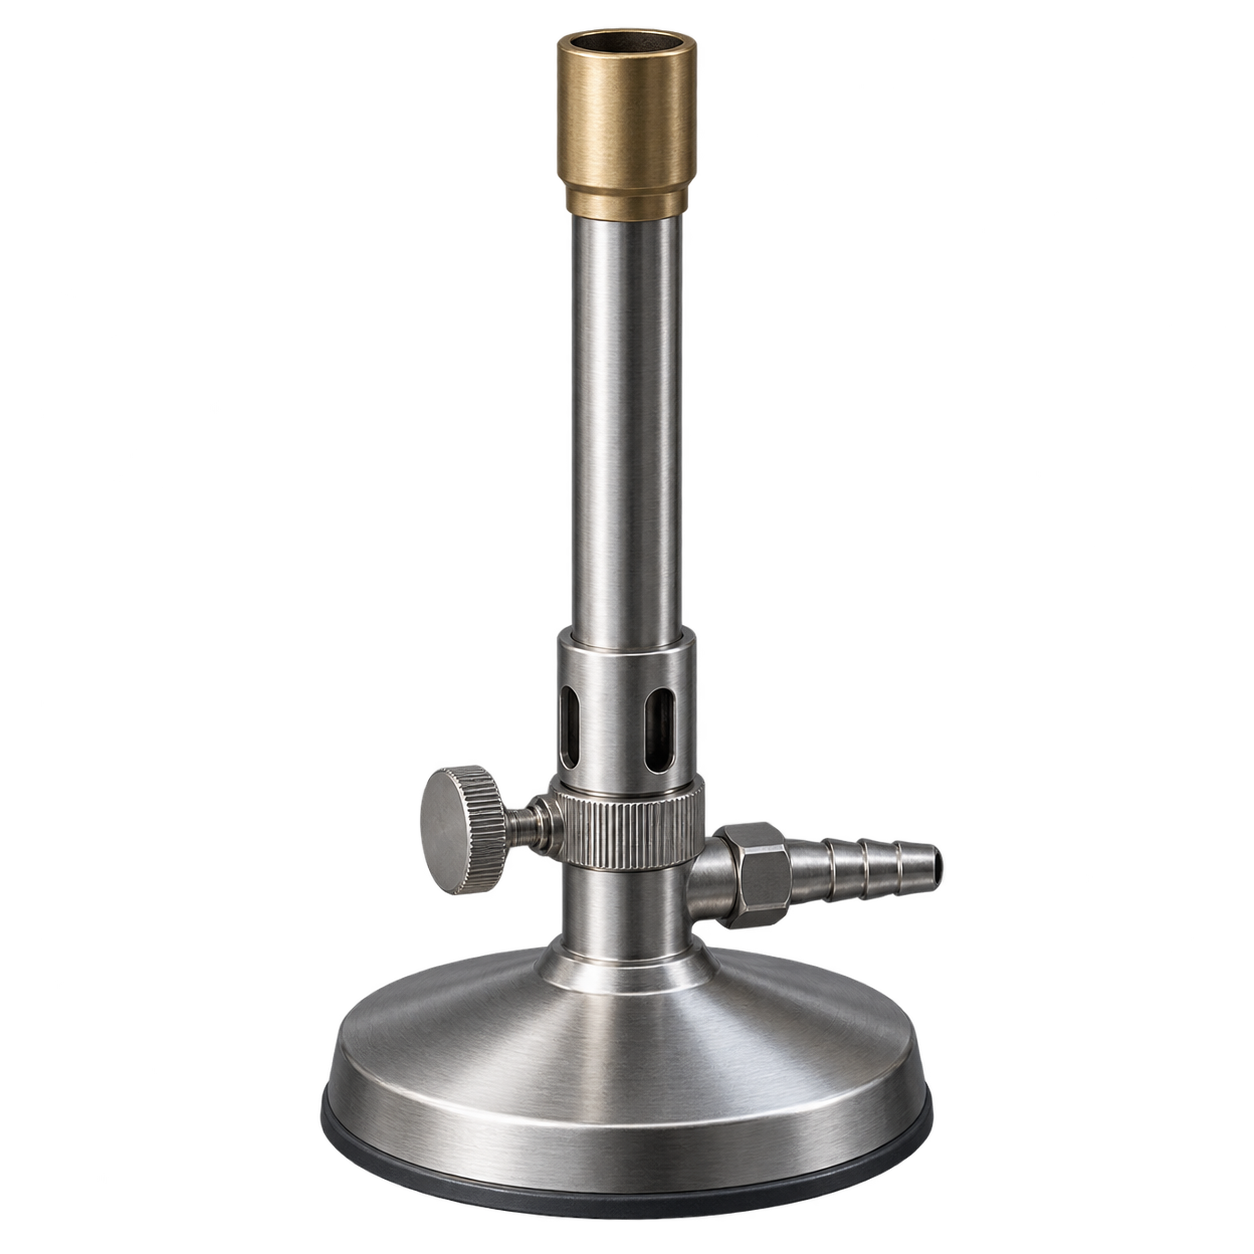
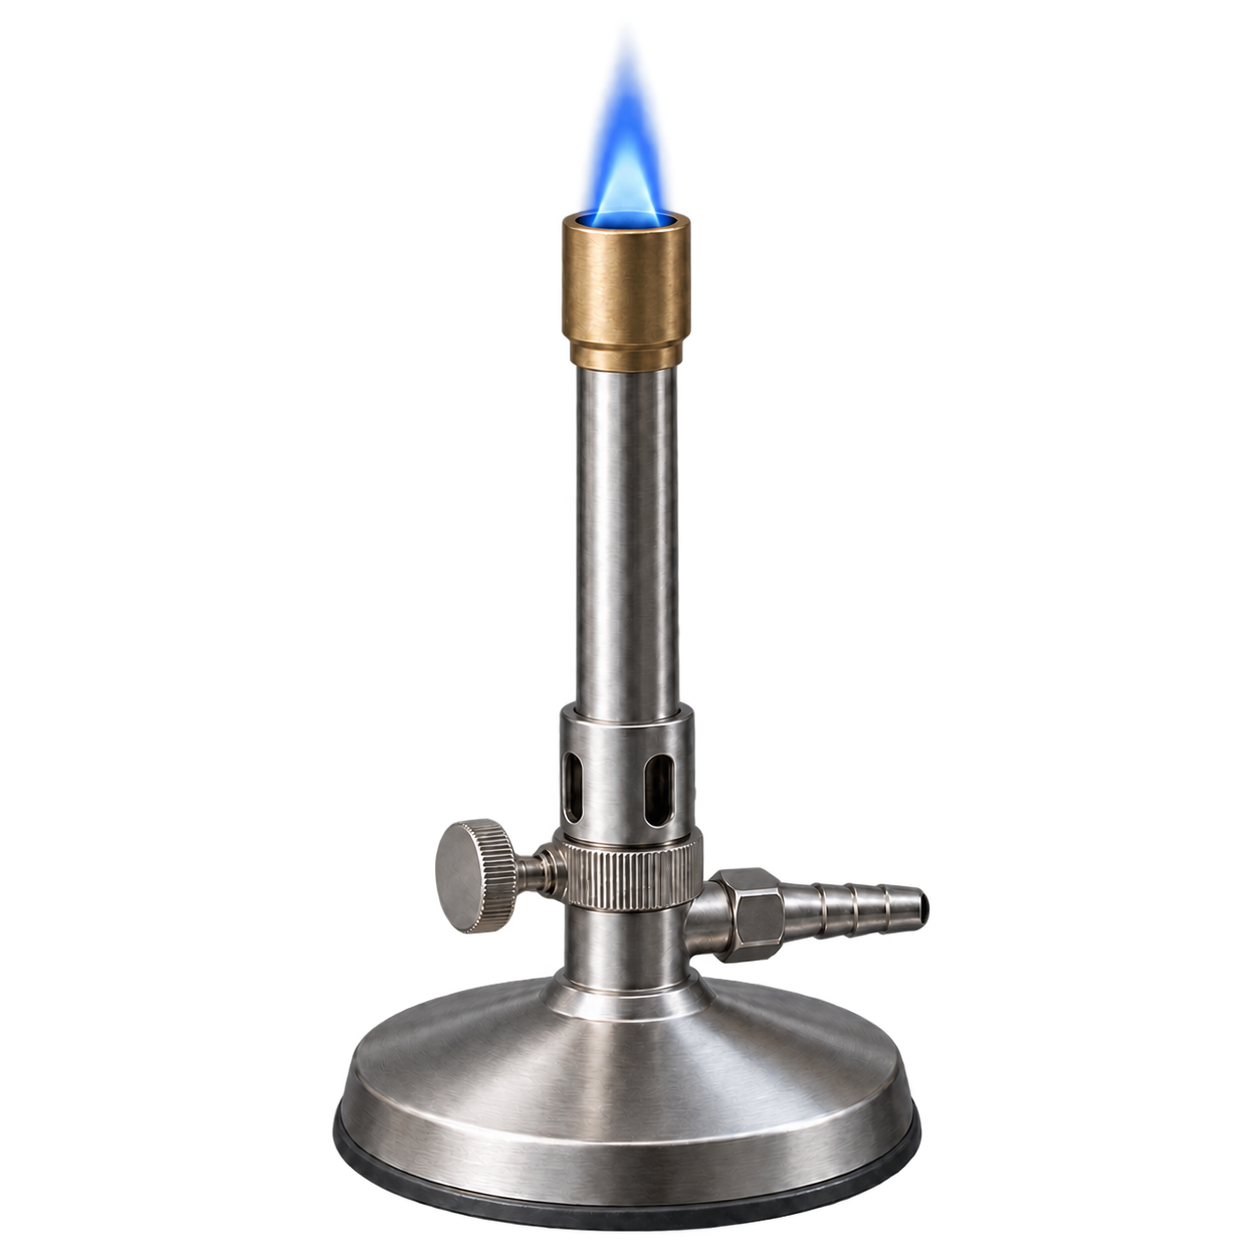
Polish Mission 7 prepared-state artwork

Changed region(s): [[0.2488, 0.0, 0.7775, 0.9952]]

diff --git a/bacteriology/main/styles.css b/bacteriology/main/styles.css
@@ -497,7 +497,7 @@ button.m6-plate-stack { cursor:pointer; pointer-events:auto; }
 .m7-slide.heat-fixed img { filter:sepia(.13) saturate(.9) drop-shadow(0 7px 8px rgba(0,0,0,.3)); }
 .m7-burner { z-index:9; right:5%; bottom:0; width:15%; height:43%; opacity:.54; }
 .mission-seven-scene.phase-7 .m7-burner,.mission-seven-scene.phase-8 .m7-burner { z-index:17; opacity:1; }
-.m7-flame { display:none; position:absolute; z-index:5; left:46%; top:3%; width:12%; height:21%; border-radius:52% 48% 58% 42%; background:radial-gradient(ellipse at 50% 72%,#fff 0 13%,#66dfff 16% 42%,#1b55ef 65%,transparent 70%); transform:translateY(-72%); filter:drop-shadow(0 0 8px #4fc9ff); animation:m7-flame-flicker .45s ease-in-out infinite alternate; }
+.m7-flame { display:none!important; }
 .m7-burner[aria-pressed="true"] .m7-flame { display:block; }
 .m7-dropper.active,.m7-loop.active,.m7-slide.active,.m7-burner.active { outline:4px solid #ffd166; outline-offset:2px; animation:m5-object-pulse 1.2s ease-in-out infinite; }
 .m7-loop:not(.active),.m7-dropper:not(.active),.m7-slide:not(.active) { pointer-events:none; }
